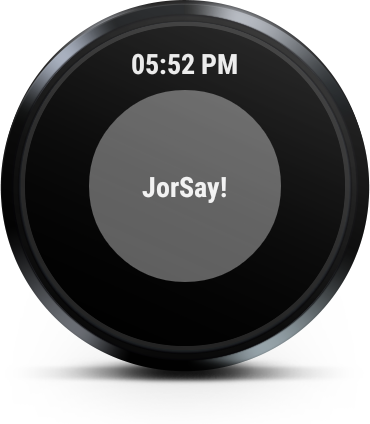
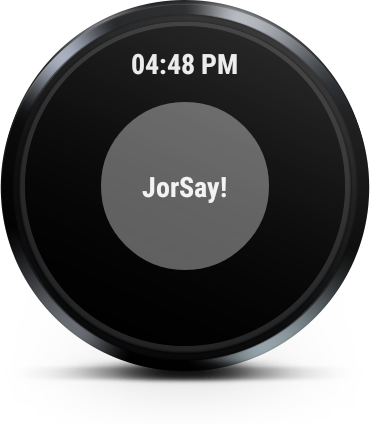
Reduce JorSay button circle size in ambient mode. Also added screenshots.

Changed region(s): [[0.2378, 0.2146, 0.773, 0.6745], [0.3865, 0.1226, 0.5351, 0.184]]

diff --git a/JorSay/wear/src/main/java/com/mocha17/slayer/WearMainActivity.java b/JorSay/wear/src/main/java/com/mocha17/slayer/WearMainActivity.java
@@ -57,6 +57,7 @@ public class WearMainActivity extends WearableActivity implements View.OnClickLi
         Resources resources = getResources();
         appScreen.setBackgroundColor(resources.getColor(R.color.ambient_background));
         buttonJorsayCircle.setCircleColor(resources.getColor(R.color.ambient_content_background));
+        buttonJorsayCircle.setCircleRadius(resources.getDimension(R.dimen.circle_radius_ambient));
         buttonJorsayText.setTextColor(resources.getColor(R.color.ambient_text));
 
         //Update date
@@ -72,6 +73,7 @@ public class WearMainActivity extends WearableActivity implements View.OnClickLi
         Resources resources = getResources();
         appScreen.setBackgroundColor(resources.getColor(R.color.app_light));
         buttonJorsayCircle.setCircleColor(resources.getColor(R.color.app_dark));
+        buttonJorsayCircle.setCircleRadius(resources.getDimension(R.dimen.circle_radius));
         buttonJorsayText.setTextColor(resources.getColor(R.color.app_light));
     }
 
